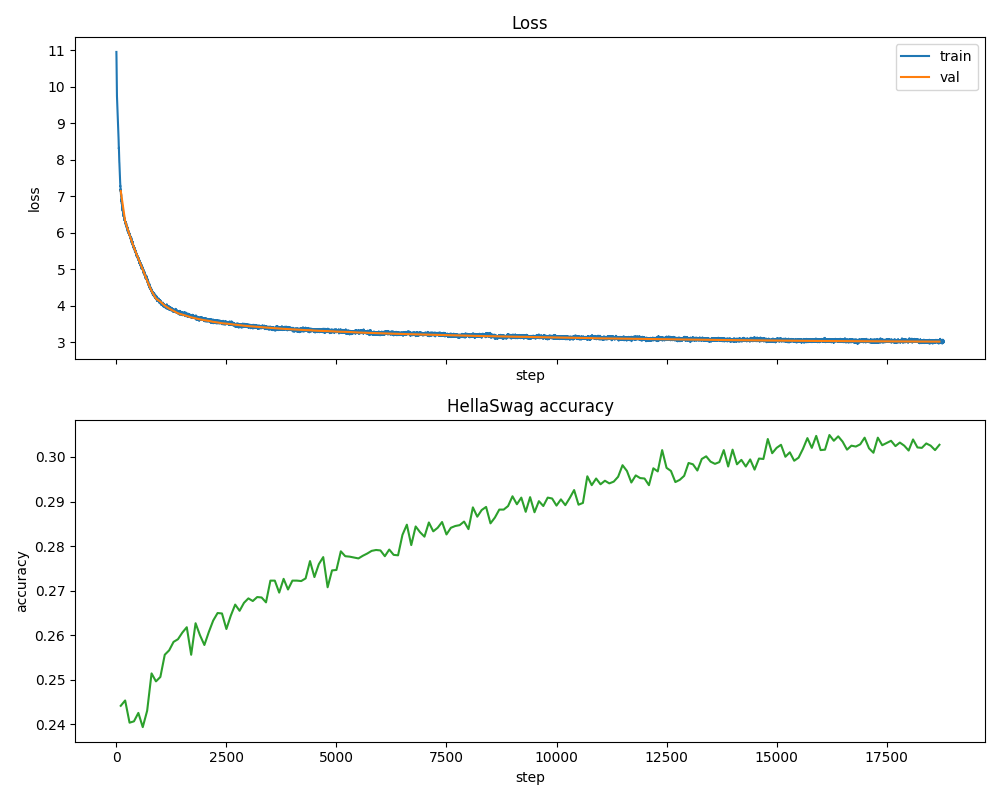
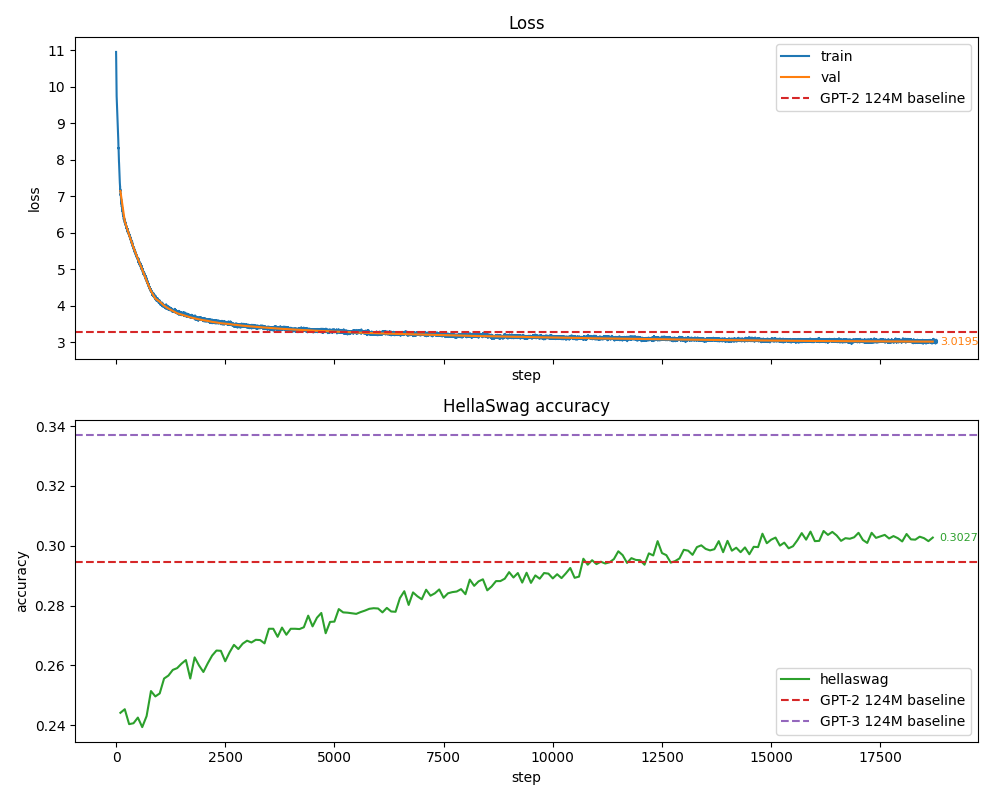
Add pretraining baselines

diff --git a/results/plot.py b/results/plot.py
@@ -18,7 +18,28 @@ def load_log(path):
     return series
 
 
-def plot_pretraining_or_sft(series, plot_path):
+# GPT-2 124M baseline numbers (Radford et al. 2019 / Karpathy's llm.c), for comparison
+# against our pretraining run.
+loss_baseline = {
+    "124M": 3.2924,
+}
+hella2_baseline = {  # HellaSwag for GPT-2
+    "124M": 0.294463,
+}
+hella3_baseline = {  # HellaSwag for GPT-3
+    "124M": 0.337,
+}
+
+
+def annotate_last(ax, steps, values, color=None):
+    if not steps:
+        return
+    x, y = steps[-1], values[-1]
+    ax.annotate(f"{y:.4f}", xy=(x, y), xytext=(5, 0), textcoords="offset points",
+                va="center", fontsize=8, color=color)
+
+
+def plot_pretraining_or_sft(series, plot_path, is_pretraining):
     has_hellaswag = "hellaswag" in series  # only pretraining logs a hellaswag split
 
     fig, axes = plt.subplots(2 if has_hellaswag else 1, 1, figsize=(10, 8 if has_hellaswag else 4), sharex=True)
@@ -27,7 +48,12 @@ def plot_pretraining_or_sft(series, plot_path):
     for split in ("train", "val"):
         if split in series:
             steps, values = series[split]
-            loss_ax.plot(steps, values, label=split)
+            line, = loss_ax.plot(steps, values, label=split)
+            if split == "val":
+                annotate_last(loss_ax, steps, values, color=line.get_color())
+    if is_pretraining:
+        loss_ax.axhline(loss_baseline["124M"], color="tab:red", linestyle="--",
+                         label="GPT-2 124M baseline")
     loss_ax.set_xlabel("step")
     loss_ax.set_ylabel("loss")
     loss_ax.set_title("Loss")
@@ -37,9 +63,16 @@ def plot_pretraining_or_sft(series, plot_path):
         acc_ax = axes[1]
         steps, values = series["hellaswag"]
         acc_ax.plot(steps, values, label="hellaswag", color="tab:green")
+        annotate_last(acc_ax, steps, values, color="tab:green")
+        if is_pretraining:
+            acc_ax.axhline(hella2_baseline["124M"], color="tab:red", linestyle="--",
+                            label="GPT-2 124M baseline")
+            acc_ax.axhline(hella3_baseline["124M"], color="tab:purple", linestyle="--",
+                            label="GPT-3 124M baseline")
         acc_ax.set_xlabel("step")
         acc_ax.set_ylabel("accuracy")
         acc_ax.set_title("HellaSwag accuracy")
+        acc_ax.legend()
 
     fig.tight_layout()
     fig.savefig(plot_path)
@@ -87,7 +120,7 @@ def main():
     if args.run == "rlvr":
         plot_rlvr(series, plot_path)
     else:
-        plot_pretraining_or_sft(series, plot_path)
+        plot_pretraining_or_sft(series, plot_path, is_pretraining=args.run == "pretraining")
 
     print(f"Saved plot to {plot_path}")
 
